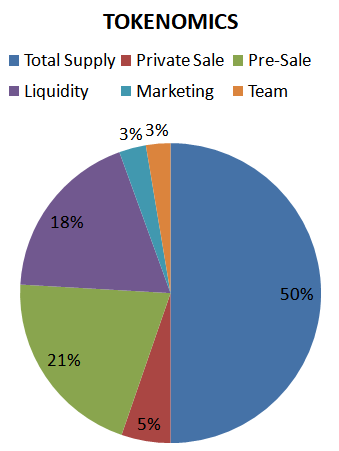
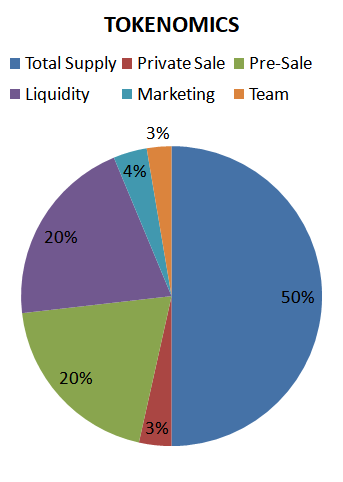
refactor

diff --git a/pages/index.tsx b/pages/index.tsx
@@ -139,27 +139,27 @@ export default function Home(): JSX.Element {
                   }}
                 >
                   <p className="bg-info badge-pill p-1 text-center">
-                    Total Supply <Badge variant="success">6,200,000</Badge>{' '}
+                    Total Supply <Badge variant="success">6,700,000</Badge>{' '}
                     <GiToken size="25" color="gold" />
                   </p>
                   <p className="bg-info badge-pill p-1 text-center">
-                    Private Sale <Badge variant="success">657,140</Badge>{' '}
-                    (32,857) <GiToken size="25" color="gold" />
+                    Private Sale <Badge variant="success">468,750</Badge>{' '}
+                    (31,250) <GiToken size="25" color="gold" />
                   </p>
                   <p className="bg-info badge-pill p-1 text-center">
-                    Pre Sale <Badge variant="success">2,555,600</Badge>{' '}
+                    Pre Sale <Badge variant="success">2,638,910</Badge> (27,778)
                     <GiToken size="25" color="gold" />
                   </p>
                   <p className="bg-info badge-pill p-1 text-center">
-                    Liquidity <Badge variant="success">2,300,000</Badge>{' '}
+                    Liquidity <Badge variant="success">2,750,000</Badge>{' '}
                     <GiToken size="25" color="gold" />
                   </p>
                   <p className="bg-info badge-pill p-1 text-center">
-                    Marketing <Badge variant="success">360,000</Badge>{' '}
+                    Marketing <Badge variant="success">486,000</Badge>{' '}
                     <GiToken size="25" color="gold" />
                   </p>
                   <p className="bg-info badge-pill p-1 text-center">
-                    Team <Badge variant="success">327,260</Badge>{' '}
+                    Team <Badge variant="success">356,340</Badge>{' '}
                     <GiToken size="25" color="gold" />
                   </p>
                 </div>
